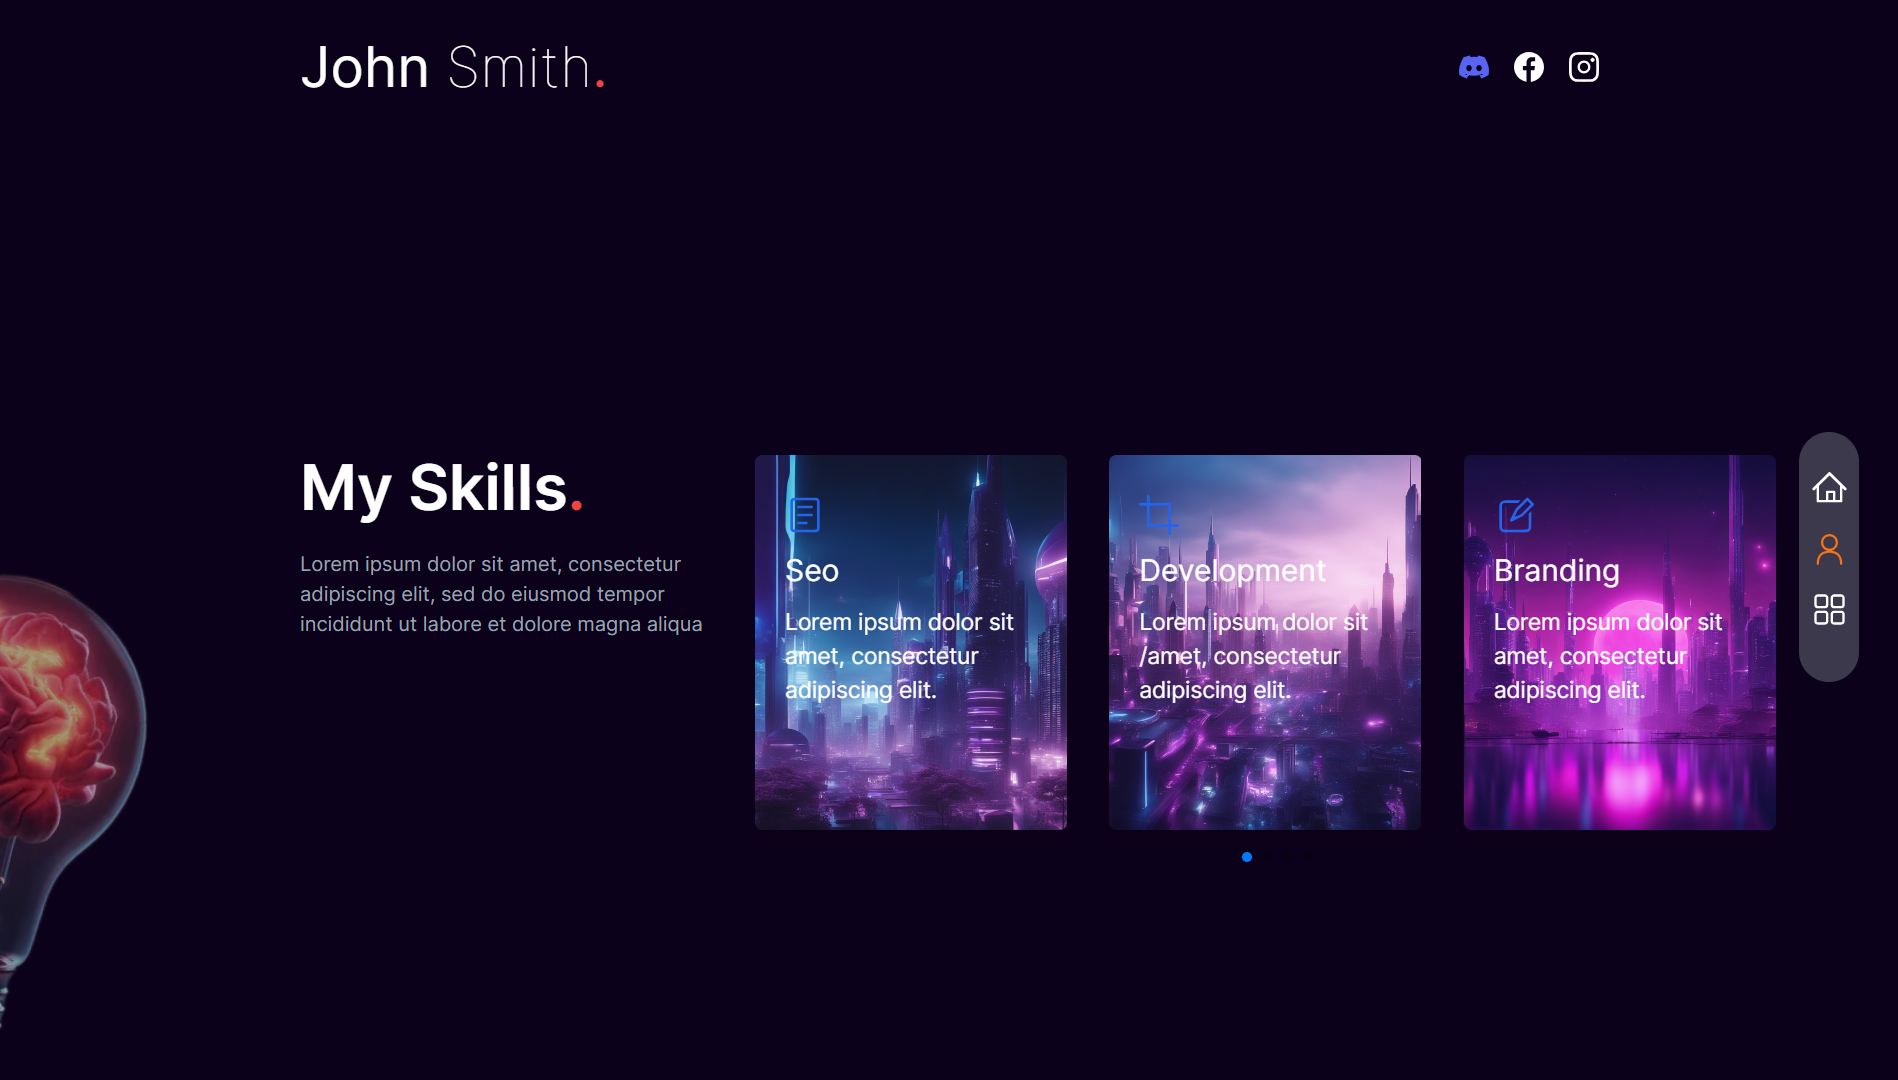
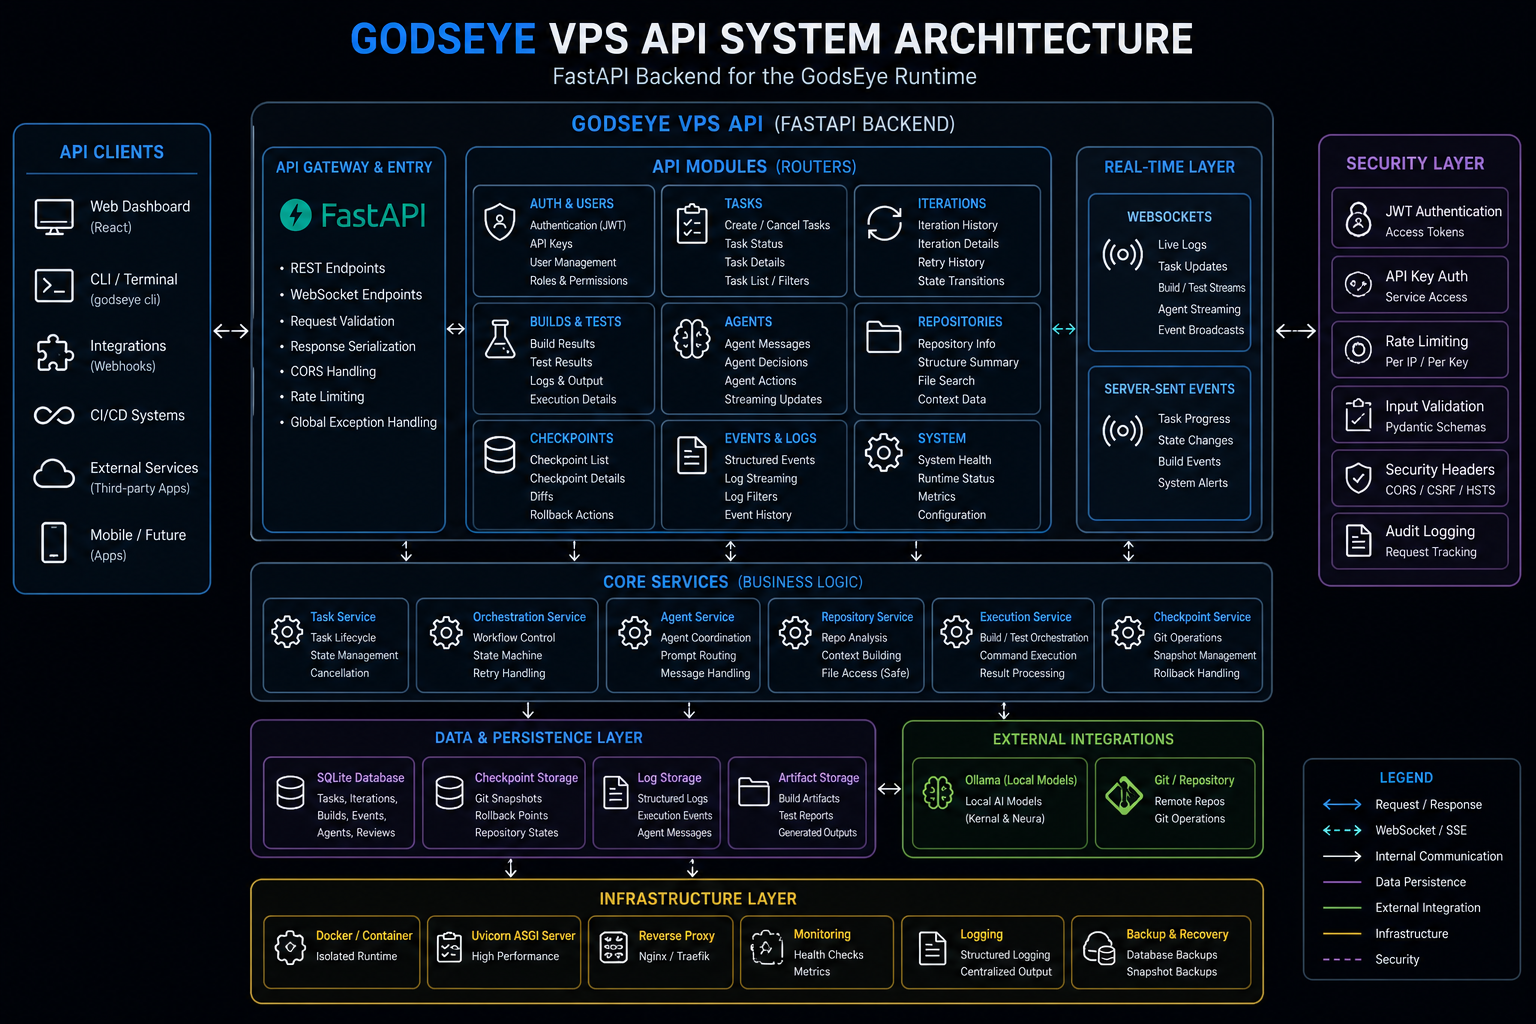
projects update

diff --git a/constants/index.ts b/constants/index.ts
@@ -262,9 +262,16 @@ export const RESOURCES = [
   {
     title: "GE | VPS API",
     description:
-      'GodsEye VPS API is a secure, orchestrator-controlled engineering runtime built for autonomous software development workflows. Designed around isolated execution, structured automation, and deterministic orchestration, the API enables repository analysis, intelligent code generation, build/test execution, failure handling, and multi-agent collaboration through a scalable FastAPI-powered backend. Built for reliability and observability, GodsEye combines AI-driven engineering with strict runtime validation, workspace isolation, checkpointing, and controlled execution to deliver a powerful next-generation autonomous development platform. ',
+      'GodsEye Runtime is the autonomous execution engine behind the GodsEye platform, designed to coordinate AI-driven software engineering workflows in secure isolated environments. It handles task orchestration, agent execution, repository analysis, build/testing pipelines, retry handling, and structured runtime operations using deterministic orchestration and sandboxed execution.',
     image: "/projects/project-1.png",
-    link: "#"
+    link: "https://github.com/GodsEyeGlobal/godseye-vps-api"
+  },
+  {
+    title: "GE | RUNTIME",
+    description:
+      'GodsEye VPS API is a secure orchestration API built for autonomous AI engineering workflows. It manages isolated workspaces, task execution, build/testing pipelines, agent coordination, and real-time runtime operations across VPS infrastructure.',
+    image: "/projects/project-2.png",
+    link: "https://github.com/GodsEyeGlobal/godseye-runtime"
   },
 
 ] as const;
